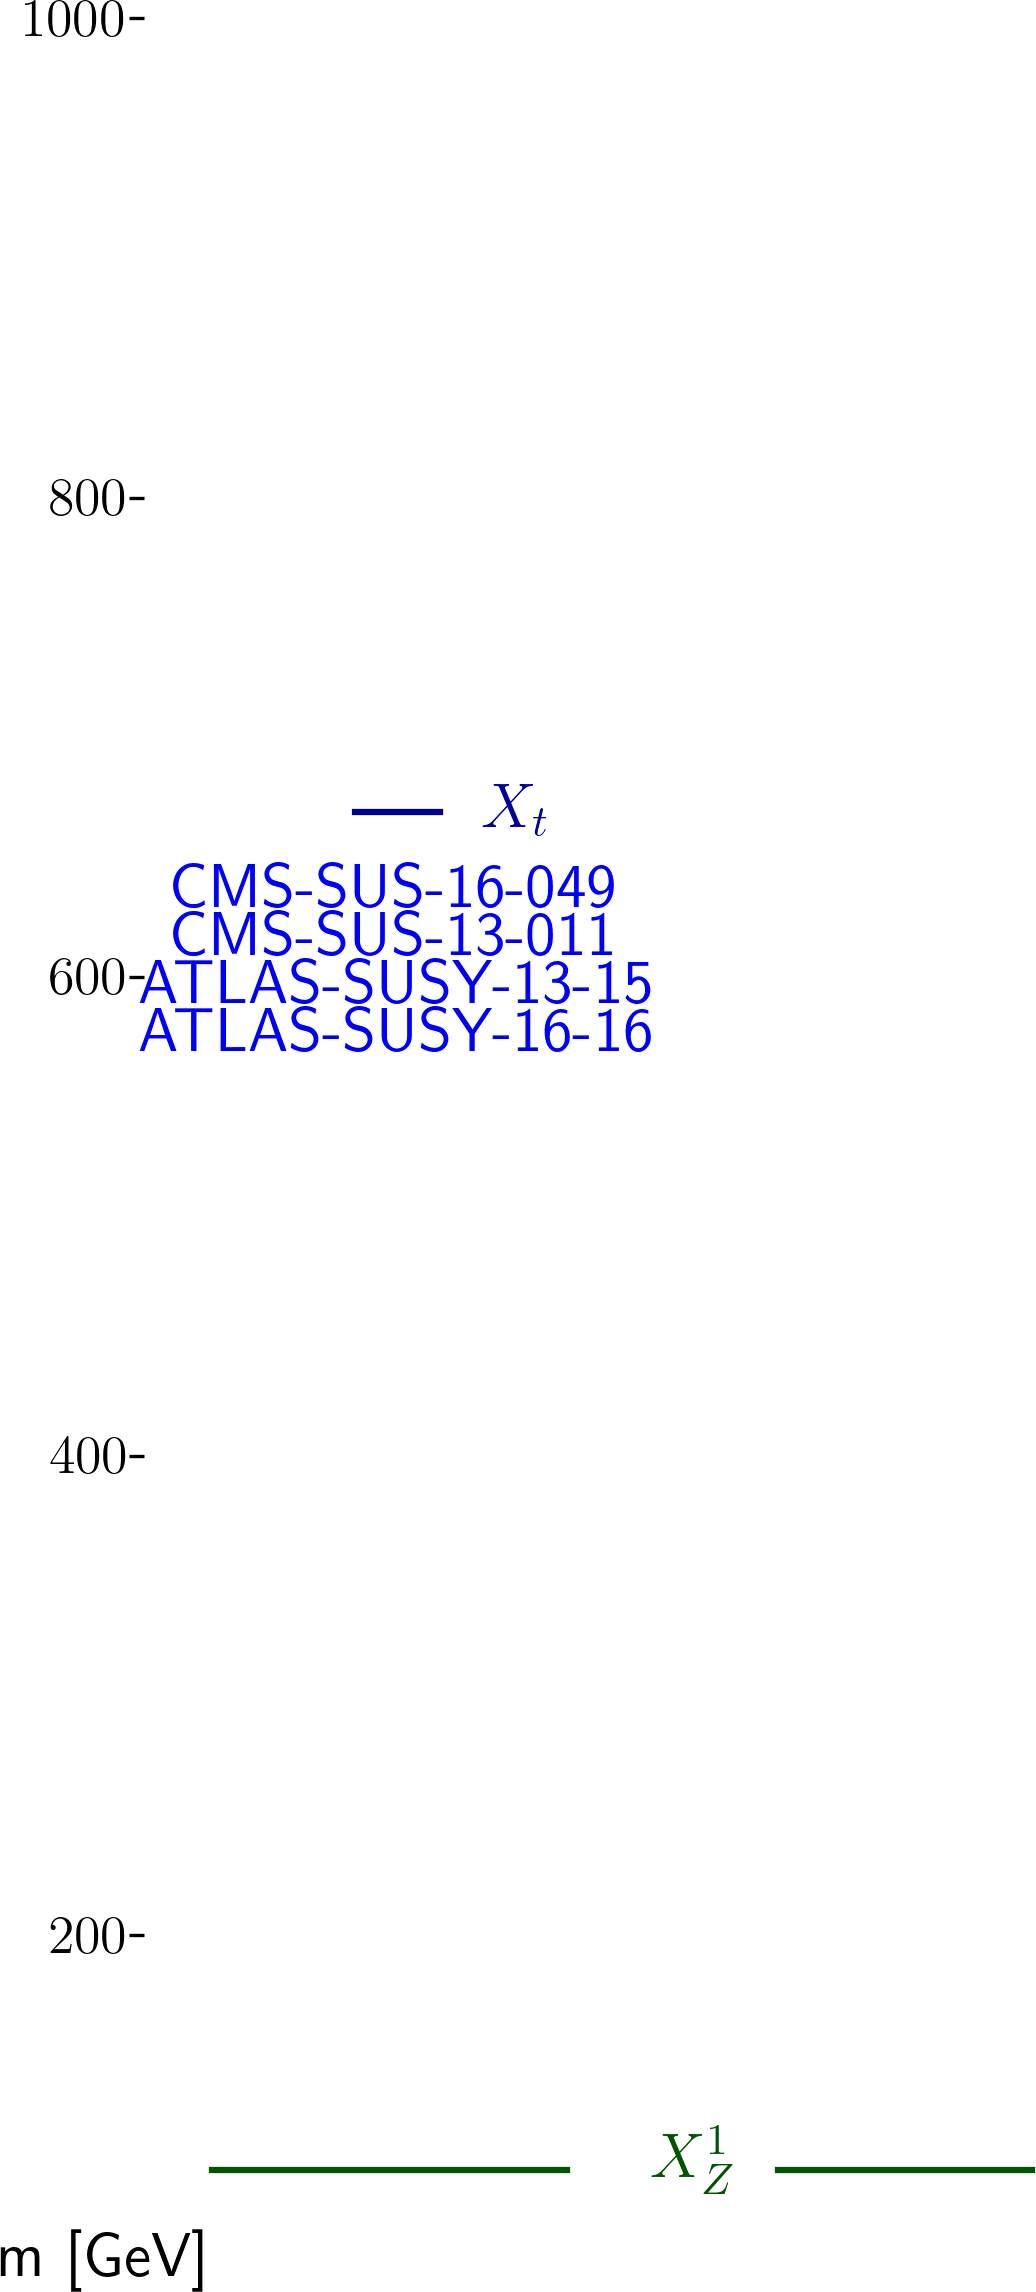
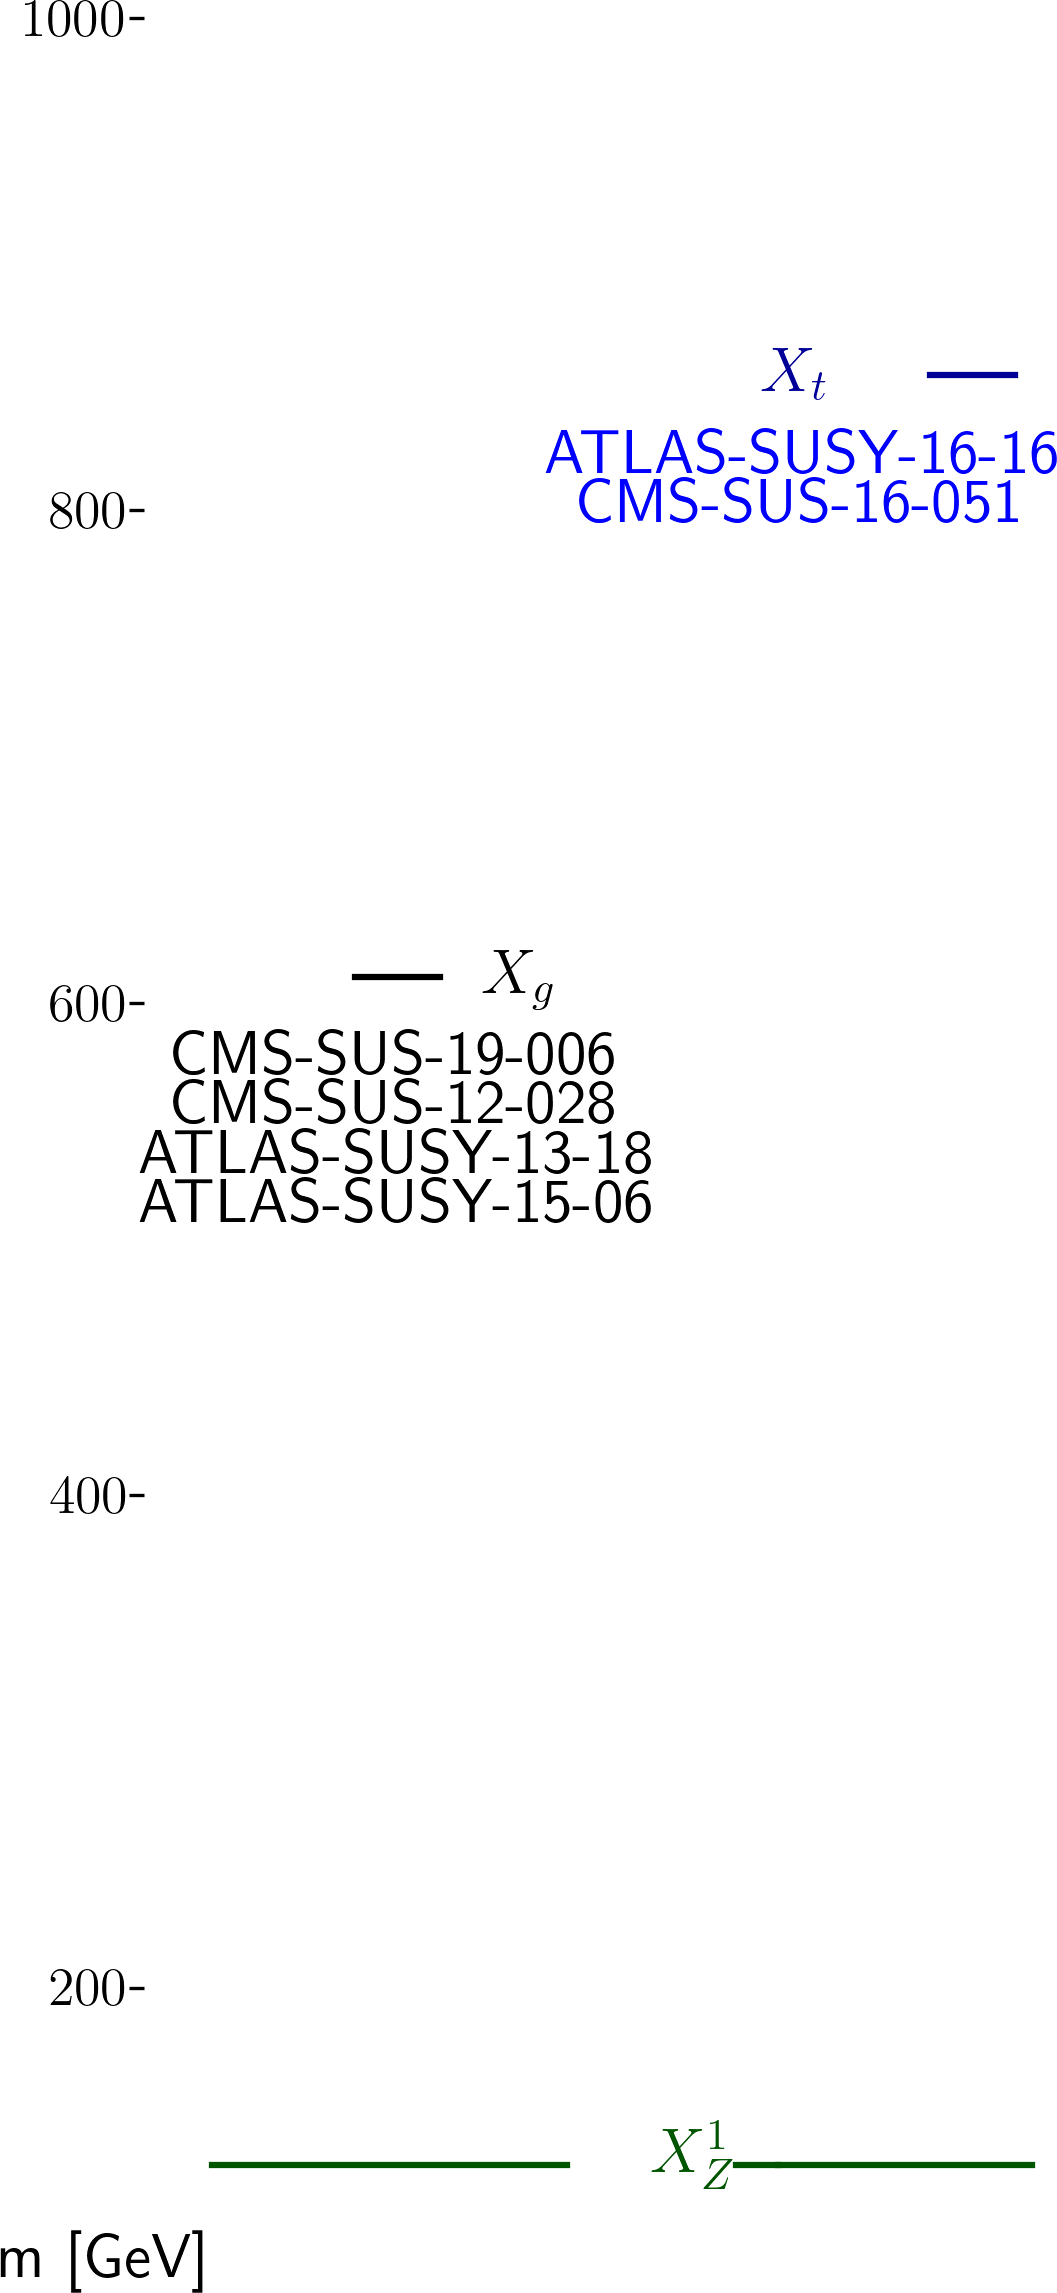
automated update by plotHiscore.py

diff --git a/protomodels/latest/index.html b/protomodels/latest/index.html
@@ -1,29 +1,31 @@
 <html>
 <body>
 <center>
-<table><td><h1>Current best protomodel: K=7.45</h1><td><img height=60px src=https://smodels.github.io/pics/banner.png></table>
+<table><td><h1>Current best protomodel: K=5.16</h1><td><img height=60px src=https://smodels.github.io/pics/banner.png></table>
 </center>
-<b><a href=./hiscore.slha>ProtoModel</a> <a href=./pmodel.py>(dict)</a> produced with <a href=https://smodels.github.io/docs/Validation124fake24>database v1.2.4fake24</a>, combination strategy <a href=./matrix_aggressive.png>aggressive</a> in walker 29 step 471.</b> K plots for: <a href=./M1000022.png?8268056>X<sub>Z</sub><sup>1</sup></a>, <a href=./M1000006.png?8268056>X<sub>t</sub></a>. HPD plots for: <a href=./llhd1000006.png?8268056>X<sub>t</sub></a>. SSM plots for: <a href=./ssm_-1000006_1000006.png?8268056>(x&#772;<sub>t</sub>,X<sub>t</sub>)</a><br>
+<b><a href=./hiscore.slha>ProtoModel</a> <a href=./pmodel.py>(dict)</a> produced with <a href=https://smodels.github.io/docs/Validation124fake27>database v1.2.4fake27</a>, combination strategy <a href=./matrix_aggressive.png>aggressive</a> in walker 1 step 255.</b> K plots for: <a href=./M1000022.png?8268168>X<sub>Z</sub><sup>1</sup></a>, <a href=./M1000006.png?8268168>X<sub>t</sub></a>, <a href=./M1000021.png?8268168>X<sub>g</sub></a>. HPD plots for: <a href=./llhd1000006.png?8268168>X<sub>t</sub></a>, <a href=./llhd1000021.png?8268168>X<sub>g</sub></a>. SSM plots for: <a href=./ssm_1000021_1000021.png?8268168>(X<sub>g</sub>,X<sub>g</sub>)</a>, <a href=./ssm_-1000006_1000006.png?8268168>(x&#772;<sub>t</sub>,X<sub>t</sub>)</a><br>
 <table width=80%>
 <tr><td>
-<br><b>28 predictions available. Highest r values are:</b><br><ul>
-<li>CMS-SUS-19-006:T2tt r=1.30, r<sub>exp</sub>=0.84<br>
-<li>CMS-SUS-16-051:T2tt r=0.90, r<sub>exp</sub>=0.75<br>
-<li>CMS-SUS-16-050:T2tt r=0.59, r<sub>exp</sub>=1.06<br>
-<li>CMS-SUS-16-033:T2tt r=0.58, r<sub>exp</sub>=0.59<br>
-<li>CMS-SUS-17-010:T2tt r=0.58, r<sub>exp</sub>=0.15<br>
+<br><b>44 predictions available. Highest r values are:</b><br><ul>
+<li>CMS-SUS-16-050:T2tt r=1.30, r<sub>exp</sub>=0.80<br>
+<li>CMS-SUS-16-033:T2tt,T1bbbb,TGQ r=1.24, r<sub>exp</sub>=1.04<br>
+<li>CMS-SUS-13-019:T1bbbb r=1.05, r<sub>exp</sub>=N/A<br>
+<li>CMS-SUS-16-033:T2 r=0.72, r<sub>exp</sub>=0.70<br>
+<li>CMS-SUS-19-006:T2 r=0.56, r<sub>exp</sub>=0.96<br>
 </ul>
 <td><br><b>K values without analyses: (contribution)</b><br>
 <ul>
-<li> <a href=>CMS-SUS-16-049</a>: -0.13 (23%)
-<li> <a href=>CMS-SUS-13-011</a>: -0.14 (23%)
-<li> <a href=>ATLAS-SUSY-2013-15</a>: -0.71 (25%)
-<li> <a href=>ATLAS-SUSY-2016-16</a>: -1.59 (28%)
-<td><img width=600px src=./texdoc.png?1601268056>
-<br><font size=-1>Last updated: Mon Sep 28 06:40:56 2020</font>
+<li> <a href=>ATLAS-SUSY-2015-06</a>: -1.39 (15%)
+<li> <a href=>CMS-SUS-19-006</a>: -1.70 (16%)
+<li> <a href=>CMS-SUS-16-051</a>: -1.70 (16%)
+<li> <a href=>CMS-SUS-12-028</a>: -1.70 (16%)
+<li> <a href=>ATLAS-SUSY-2016-16</a>: -3.10 (19%)
+<li> <a href=>ATLAS-SUSY-2013-18</a>: -3.66 (20%)
+<td><img width=600px src=./texdoc.png?1601268168>
+<br><font size=-1>Last updated: Mon Sep 28 06:42:48 2020</font>
 </table><table style="width:80%">
-<td width=45%><img height=580px src=./ruler.png?1601268056><td width=55%><img height=380px src=./decays.png?1601268056>
-<font size=-3><iframe type="text/html" height="220px" width="100%s" frameborder="0" src="./rawnumbers.html?1601268056"></iframe></font>
+<td width=45%><img height=580px src=./ruler.png?1601268168><td width=55%><img height=380px src=./decays.png?1601268168>
+<font size=-3><iframe type="text/html" height="220px" width="100%s" frameborder="0" src="./rawnumbers.html?1601268168"></iframe></font>
 </table>
 </body>
 </html>

diff --git a/protomodels/latest/rawnumbers.html b/protomodels/latest/rawnumbers.html
@@ -1,8 +1,10 @@
 <table>
 <tr><th>Analysis Name</th><th>Type</th><th>Dataset</th><th>Topos</th><th>Observed</th><th>Expected</th><th>Approx &sigma;</th><th>Particles</th>
 </tr>
-<tr><td>ATLAS-SUSY-2013-15</td><td>em</td> <td>tNboost</td><td>T2tt</td><td>5</td><td>3.3 +/- 0.7</td><td style="text-align:right">0.9 &sigma;</td><td style="text-align:right">X<sub>t</sub></td></tr>
-<tr><td>ATLAS-SUSY-2016-16</td><td>em</td> <td>tN_med</td><td>T2tt</td><td>48</td><td>36.3 +/- 6.6</td><td style="text-align:right">1.3 &sigma;</td><td style="text-align:right">X<sub>t</sub></td></tr>
-<tr><td>CMS-SUS-13-011</td><td>em</td> <td>LM150</td><td>T2tt</td><td>262</td><td>251 +/- 50</td><td style="text-align:right">0.2 &sigma;</td><td style="text-align:right">X<sub>t</sub></td></tr>
-<tr><td>CMS-SUS-16-049</td><td>ul</td> <td>-</td><td>T2tt</td><td> 25.5 fb </td><td> 11.3 fb</td><td style="text-align:right">2.5 &sigma;</td><td style="text-align:right">X<sub>t</sub></td></tr>
+<tr><td>ATLAS-SUSY-2013-18</td><td>em</td> <td>SR-0l-4j-B</td><td>T1bbbb</td><td>4</td><td>1.3 +/- 0.9</td><td style="text-align:right">1.9 &sigma;</td><td style="text-align:right">X<sub>g</sub></td></tr>
+<tr><td>ATLAS-SUSY-2015-06</td><td>em</td> <td>SR4jt</td><td>T1, T2</td><td>1</td><td>4.1 +/- 1.1</td><td style="text-align:right">-1.3 &sigma;</td><td style="text-align:right">X<sub>g</sub></td></tr>
+<tr><td>ATLAS-SUSY-2016-16</td><td>em</td> <td>tN_med</td><td>T2tt</td><td>49</td><td>36.3 +/- 6.6</td><td style="text-align:right">1.4 &sigma;</td><td style="text-align:right">X<sub>t</sub></td></tr>
+<tr><td>CMS-SUS-12-028</td><td>ul</td> <td>-</td><td>T1bbbb</td><td> 35.3 fb </td><td> 18.1 fb</td><td style="text-align:right">1.9 &sigma;</td><td style="text-align:right">X<sub>g</sub></td></tr>
+<tr><td>CMS-SUS-16-051</td><td>ul</td> <td>-</td><td>T2tt</td><td> 11.3 fb </td><td> 8.4 fb</td><td style="text-align:right">0.7 &sigma;</td><td style="text-align:right">X<sub>t</sub></td></tr>
+<tr><td>CMS-SUS-19-006</td><td>ul</td> <td>-</td><td>T2</td><td> 72.3 fb </td><td> 42.0 fb</td><td style="text-align:right">1.4 &sigma;</td><td style="text-align:right">X<sub>g</sub></td></tr>
 </table>

diff --git a/protomodels/latest/pmodel.py b/protomodels/latest/pmodel.py
@@ -1,1 +1,1 @@
-{'masses': {1000022: 91.84, 1000006: 658.583}, 'ssmultipliers': {(1000022, 1000022): 0.0, (1000006, 1000006): 0.001, (-1000006, 1000006): 0.136, (-1000006, -1000006): 0.001, (1000006, 1000022): 0.001, (-1000006, 1000022): 0.001}, 'decays': {1000022: {}, 1000006: {(1000022, 6): 1.0}}, 'timestamp': 'Mon Sep 28 06:40:51 2020', 'Z': 3.114, 'K': 7.447, 'step': 471, 'codever': '1.0', 'dbver': '1.2.4fake24'}
+{'masses': {1000022: 118.031, 1000021: 600.608, 1000006: 845.015}, 'ssmultipliers': {(1000022, 1000022): 0.0, (1000021, 1000021): 0.026, (1000021, 1000022): 0.026, (1000006, 1000006): 0.897, (-1000006, 1000006): 0.897, (-1000006, -1000006): 0.897, (1000006, 1000022): 0.897, (-1000006, 1000022): 0.897, (1000006, 1000021): 0.897, (-1000006, 1000021): 0.897}, 'decays': {1000022: {}, 1000021: {(1000022, 5): 0.518, (1000022, 21): 0.417, (1000022, 4): 0.065}, 1000006: {(1000021, 6): 0.429, (1000022, 6): 0.571}}, 'timestamp': 'Mon Sep 28 06:42:37 2020', 'Z': 3.187, 'K': 5.16, 'step': 255, 'codever': '1.0', 'dbver': '1.2.4fake27'}
